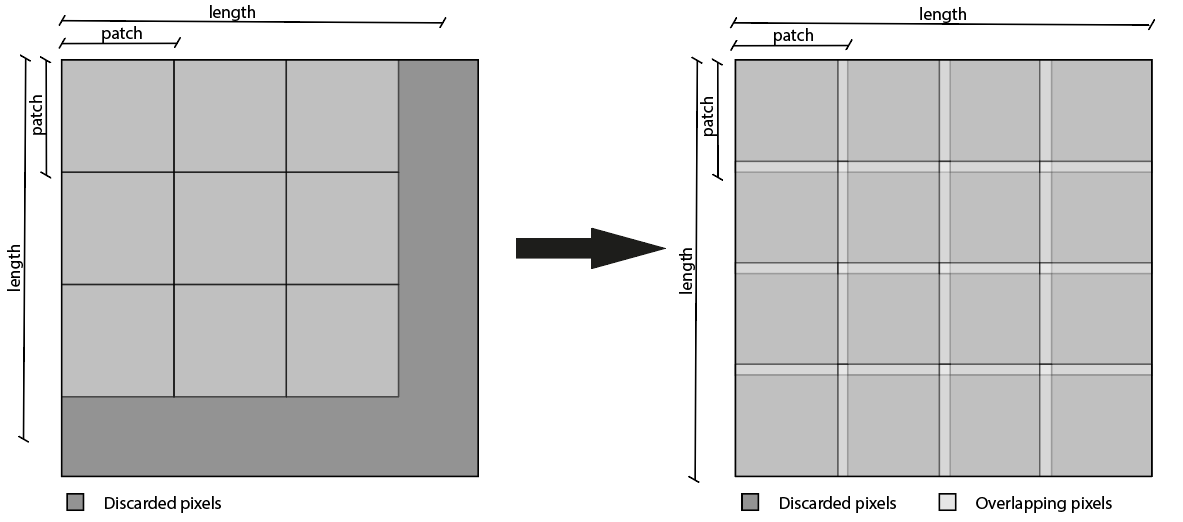
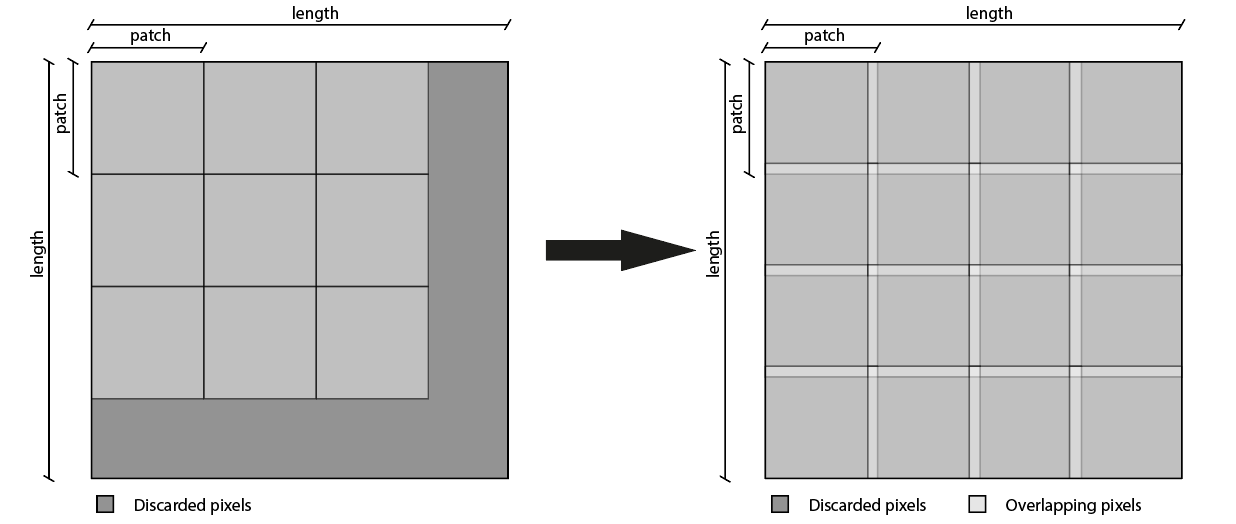
renamed and improvements

diff --git a/image2patch/patchutils.py b/image2patch/patchutils.py
@@ -14,45 +14,61 @@ import numbers
 from numpy.lib.stride_tricks import as_strided
 import math
 
-def findstep(image, patch_size, verbose):
+def findstep(image, patch_size, step, verbose):
     '''
     Takes the shape of the image and find the minimum overlap in order to obtain the best number of patches without excluding any pixel. 
     '''
     
-    X = image.shape[0]
-    Y = image.shape[1]
-    arr_shape = np.array(image.shape)
-    patch_size = np.array(patch_size, dtype=arr_shape.dtype)
-    patch_size_x = patch_size[0]
-    patch_size_y = patch_size[1]
+    X = image.shape[1]
+    Y = image.shape[0]
+    patch_size_x, patch_size_y = patch_size 
+    
+    # Number of patches: this number is lower except if the size is a multiple of the patch size
     N_patches_x = X//patch_size_x
     N_patches_y = Y//patch_size_y
 
-    diff_x = X - patch_size_x*N_patches_x
+    # Useful only when a step = None is given
     diff_y = Y - patch_size_y*N_patches_y
-    
-    overlap_x = math.ceil((patch_size_x - diff_x) / N_patches_x) #first overlap, rounded high so if it's 8.3 returns 9
-    overlap_y = math.ceil((patch_size_y - diff_y) / N_patches_y)
-    overlapping_pixels_x_axis = overlap_x * Y
-    overlapping_pixels_y_axis = overlap_y * X
+    ovr_pixel_y = math.ceil((patch_size_y - diff_y) / N_patches_y)
+    diff_x = X - patch_size_x*N_patches_x
+    ovr_pixel_x = math.ceil((patch_size_x - diff_x) / N_patches_x)
 
-    step_x = patch_size_x - overlap_x
-    step_y = patch_size_y - overlap_y
-    
-    lost_pixel_x = (X - (patch_size_x*(N_patches_x+1)- (overlap_x*N_patches_x)))
-    lost_pixel_y = (Y - (patch_size_y*(N_patches_y+1)- (overlap_y*N_patches_y))) 
+    # Step calculation on the y-axis
+    if step == None: 
+      if Y%patch_size_y == 0:
+        step_y = patch_size_y
+      else:
+        step_y = patch_size_y - ovr_pixel_y
+    else:
+        step_y = step
+
+    # Step calculation on the x-axis
+    if step == None: 
+      if X%patch_size_x == 0:
+        step_x = patch_size_x
+      else:
+        step_x = patch_size_x - ovr_pixel_x
+    else:
+        step_x = step
+
+    # Updated number of patching keeping the overlap due to the step size 
+    N_patches_x = (X - patch_size_x) // step_x + 1
+    N_patches_y = (Y - patch_size_y) // step_y + 1
+
+    # Overlapping pixels
+    overlapX = (patch_size_x - step_x) * (N_patches_x-1)
+    overlapY = (patch_size_y - step_y) * (N_patches_y-1)
 
     if verbose == True:
-        print('Number of patches obtained in the x direction =', N_patches_x+1)
-        print('Number of patches obtained in the y direction =', N_patches_y+1)
-        print('Overlapping pixels in the x axis =', overlapping_pixels_x_axis)
-        print('Overlapping pixels in the y axis =', overlapping_pixels_y_axis)
-        print('Total number of pixels in the image =', X*Y)
-        print('STEP x =', step_x)
-        print('STEP y =', step_y)
-        print('Number of pixels excluded on the x axis =', lost_pixel_x)
-        print('Number of pixels excluded on the y axis =', lost_pixel_y)
-
+    
+        lost_pixel_y = (Y - (patch_size_y*(N_patches_y) - overlapY))
+        lost_pixel_x = (X - (patch_size_x*(N_patches_x) - overlapX))
+        
+        print('Number of patches obtained:', N_patches_x,',',N_patches_y)
+        print('Step', step_x, ',', step_y)
+        print(f"Overlapping pixels in y = {overlapY}/{Y}, x = {overlapX}/{X}")
+        print(f"Lost pixels in y = {lost_pixel_y}/{Y}, x = {lost_pixel_x}/{X}")
+            
     return step_x, step_y
 
 def patchutils(img, patch_size, step, verbose):
@@ -60,14 +76,6 @@ def patchutils(img, patch_size, step, verbose):
     Apply a window step based on findstep in the x direction and y direction.
     '''
     num_dim = img.ndim
-    if step == None:
-        step_x_axis, step_y_axis = findstep(img, patch_size, verbose)
-    else:
-        step_x_axis = step
-        step_y_axis = step
-        if verbose == True:
-            print('Number of pixels excluded on the x axis =', img.shape[0]-(step*patch_size))
-            print('Number of pixels excluded on the y axis =', img.shape[1]-(step*patch_size))
 
     # Check the input 
     if not isinstance(img, np.ndarray):
@@ -77,6 +85,10 @@ def patchutils(img, patch_size, step, verbose):
         patch_size = (patch_size,) * num_dim
     if not (len(patch_size) == num_dim):
         raise ValueError("`patch_size` is incompatible with `img.shape`")
+
+
+    step_x_axis, step_y_axis = findstep(img, patch_size, step, verbose)
+    step = (step_y_axis, step_x_axis)
 
     if isinstance(step_x_axis, numbers.Number):
         if step_x_axis < 1:
@@ -110,21 +122,18 @@ def patchutils(img, patch_size, step, verbose):
     tot_slices.append(slicesy[0])
 
     patch_strides = np.array(img.strides)
-    strides_index = img[tot_slices].strides
-   
-    win_indices_shape_x = (img.shape[0]- patch_size) // step_x_axis + 1
-    win_indices_shape_y = (img.shape[1]- patch_size) // step_y_axis + 1
-    
+    strides_index = img[tuple(tot_slices)].strides
+
+    win_indices_shape_x = (img.shape[0]- patch_size[0]) // step_x_axis[0] + 1
+    win_indices_shape_y = (img.shape[1]- patch_size[1]) // step_y_axis[0] + 1
+
     final_patch=[]
-    final_patch.append(win_indices_shape_x[0])
-    final_patch.append(win_indices_shape_y[0])
+    final_patch.append(win_indices_shape_x)
+    final_patch.append(win_indices_shape_y)
 
     final_shape = tuple(list(final_patch) + list(patch_size))
     strides = tuple(list(strides_index) + list(patch_strides))
 
     output = as_strided(img, shape=final_shape, strides=strides)
 
-    return output
-
-
-    
+    return output, step

diff --git a/image2patch/__init__.py b/image2patch/__init__.py
@@ -6,7 +6,7 @@ from typing import Tuple, Union
 import numpy as np
 
 Imsize = Union[Tuple[int, int], Tuple[int, int, int]]
-def adaptivepatch(image: np.ndarray, patch_size: Imsize, step = None, verbose = False)-> np.ndarray: 
+def image2patch(image: np.ndarray, patch_size: Imsize, step = None, verbose = False)-> np.ndarray: 
     """
     Divide a 2D or 3D image into smaller patches in order to do not exclude relevant pixels. The function finds the best way to split the image with overlapping.
     Parameters

diff --git a/README.md b/README.md
@@ -1,21 +1,38 @@
-# adaptivepatch
-adaptivepatch can split the image in different patches with automatic detection of the best step in order to do not lose pixels. The overlap between patches depends on the patch size. 
+# image2patch
+`image2patch` can split the image in different patches with automatic detection of the best step in order to avoid pixels loss. The overlap between patches depends on the patch size.
+Alternatively, it is possible to choose the step which leads to a possible pixels loss.  
+The reconstruction of the original image is possible using `patch2image` which can merge the patches taking into account the overlap percentage among patches, in this way the original image is perfectly restored. 
 
 ## Example
 ![pic](example.png)
 
 ## Installation
 ```Python
-pip install adaptivepatch
+pip install image2patch
+```
+```Python
+from image2patch import image2patch
+```
+```Python
+from image2patch import patch2image
 ```
 ## How to use it
-`adaptivepatch(image, patch_size, step=None, verbose=False)`
+`image2patch(image, patch_size, step=None, verbose=False)`
 
 In particular:
 - image : input image which can be a 2D or 3D array
 - patch_size : dimension of the window
-- step : the distance from one step to another, if =None it will be automatically detected in order to avoid pixels loss. If set = patch_size it will provide patches without overlapping but with pixels loss depending on the input image. 
+- step : the distance from one step to another, if =None it will be automatically detected in order to avoid pixels loss. If set = patch_size it will provide patches without overlapping but with pixels loss depending on the size of the input image. 
 - verbose : if =True it provides details. 
+ 
+
+`patch2image(image, patch_size, step=None)`
+
+In particular:
+- image : input image which can be a 2D or 3D array
+- patch_size : dimension of the window
+- step : the distance from one patch to another used in `adaptivepatch`
+
  
 ## Licence
 [MIT](https://choosealicense.com/licenses/mit/)
